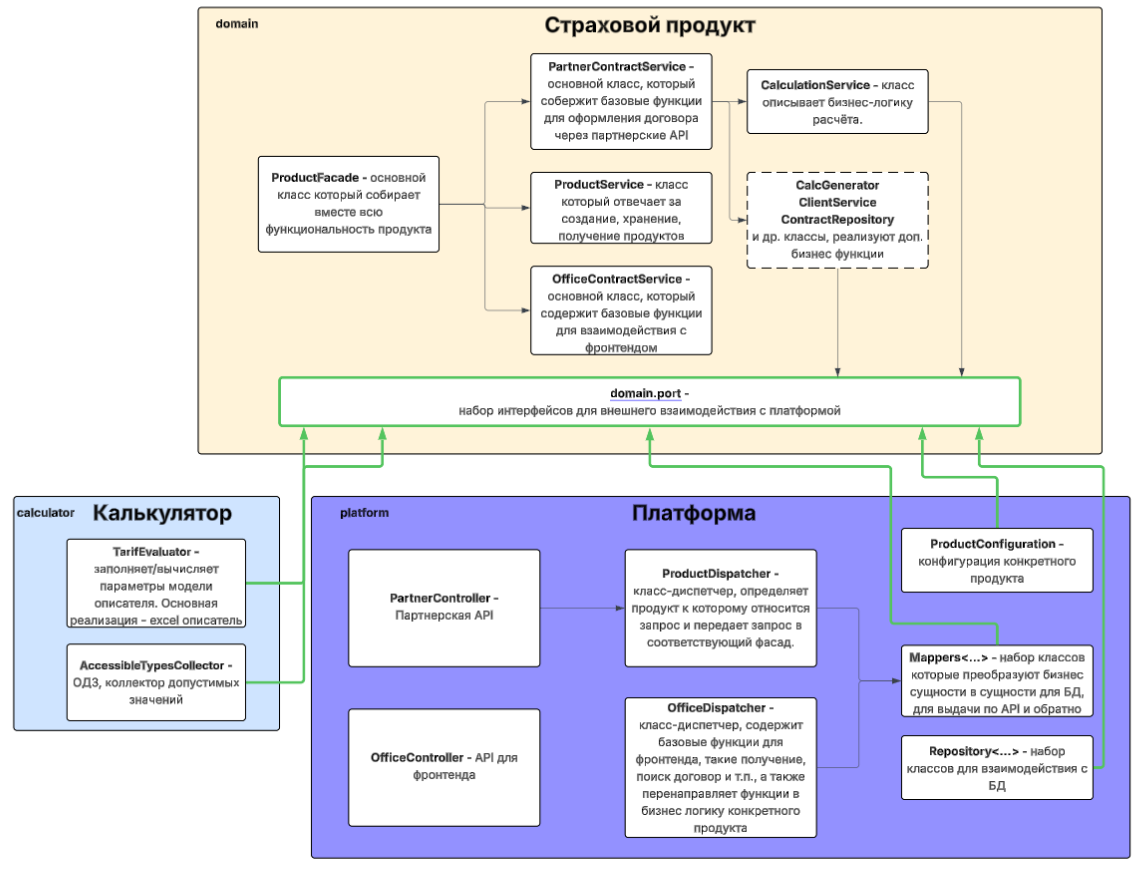
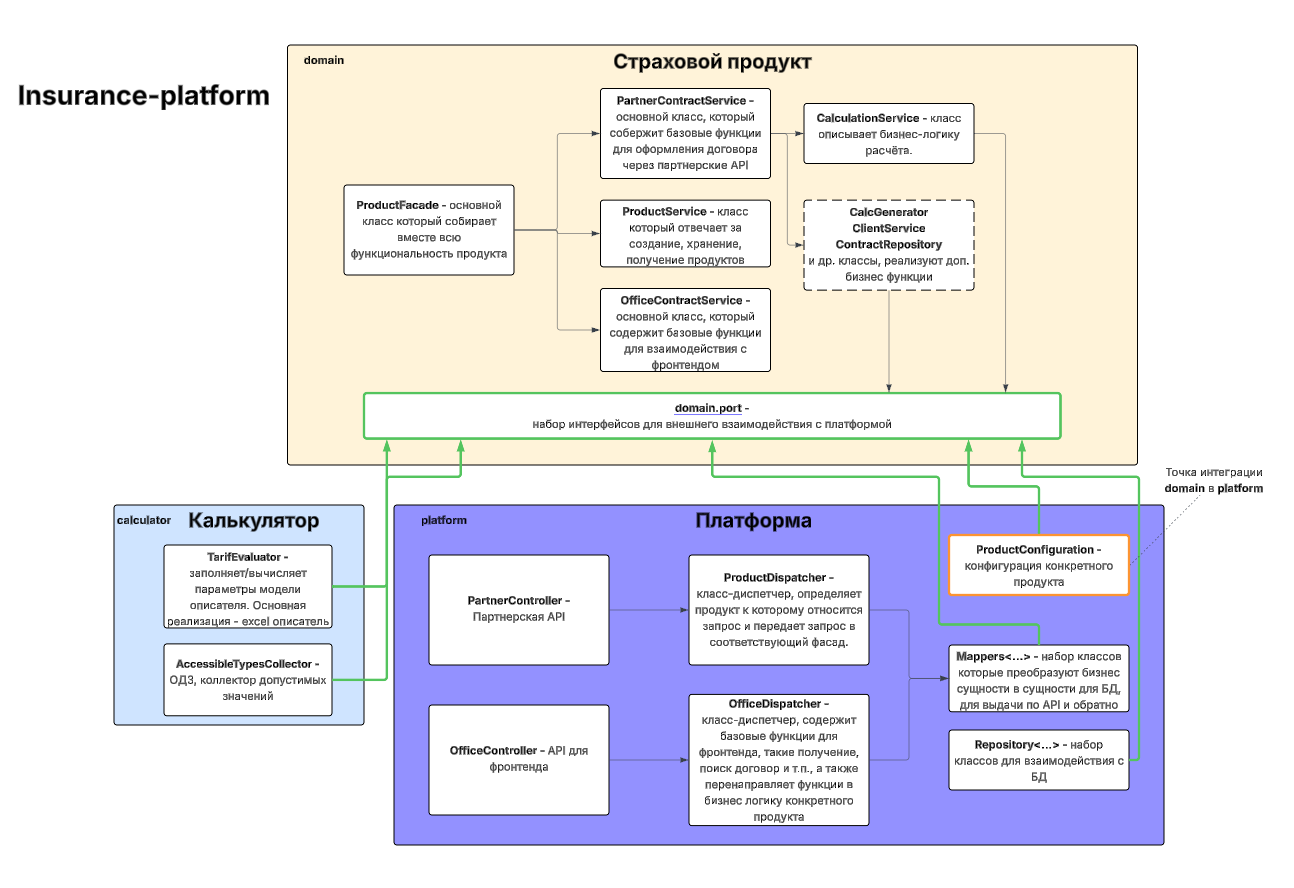
Добавил схему инфраструктуры

diff --git a/README.md b/README.md
@@ -32,13 +32,16 @@ spring:
 - Добавить API для построения графиков
 - Добавить code-generator для разработки продуктов в домене
 
+## Сервисная архитектура
 
-## Верхнеуровневая структура
+![img.png](img/img_2.png)
+
+## Верхнеуровневая структура проекта
 
 ![img.png](img/img.png)
 
 ### Основные компоненты и связи
 
-![img_1.png](img/img_1.png)
+![img.png](img/img_1.png)
 
 - 
